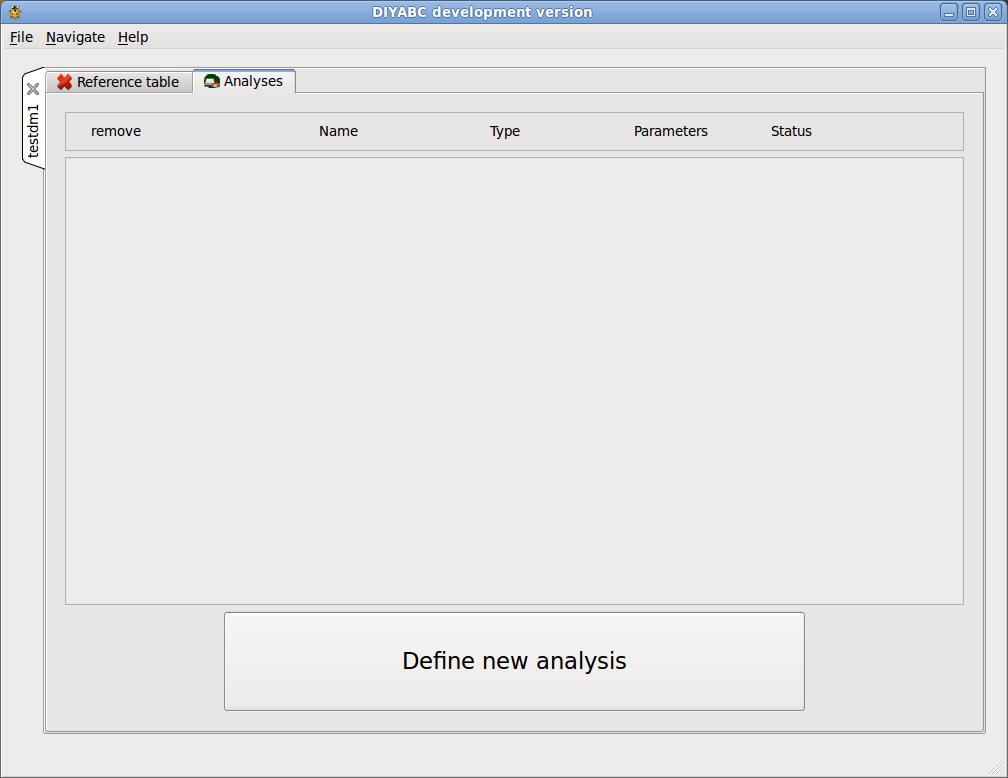
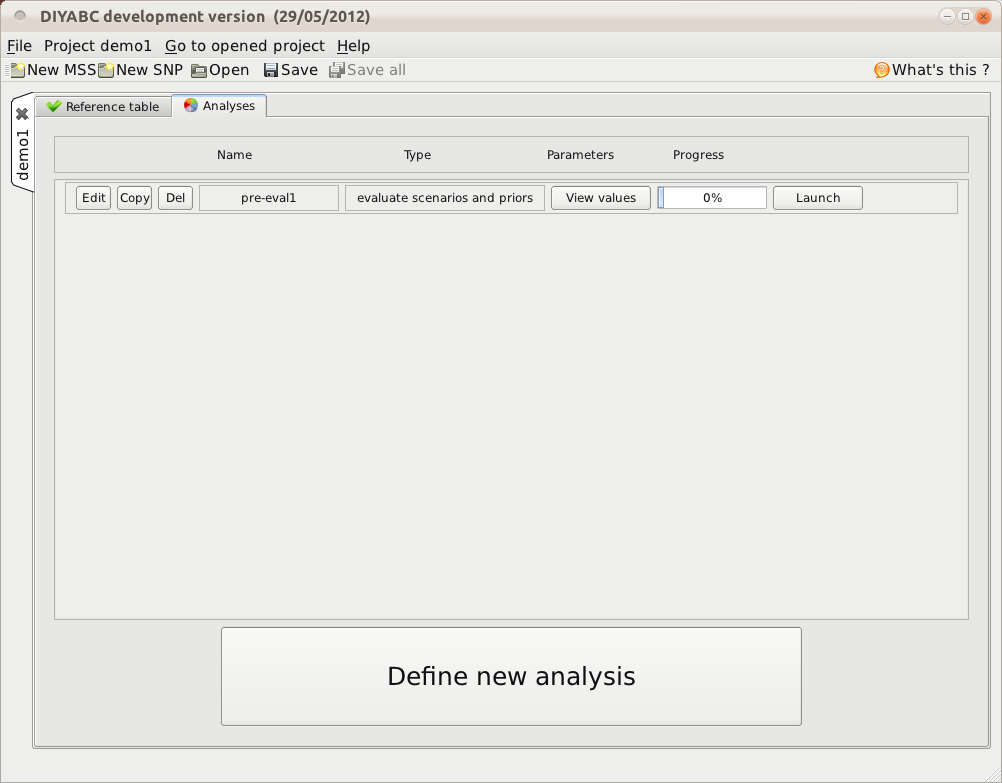
abandon du biais de recrutement mise à false sytématique de header.reference

diff --git a/Notice-DIYABC-v2/gui_description.tex b/Notice-DIYABC-v2/gui_description.tex
@@ -178,4 +178,23 @@ When the computation is finished, the screen looks like this :\\
 
 \includegraphics[scale=0.35]{gui_pictures/Capture-DIYABC-26.png} 
 
+\subsection{Performing analyses}
 
+We have now eveything necessary to perform analyses. The current screen shows two tabs : \texttt{Reference table} and \texttt{Analyses}. Let's click on the \texttt{Analyses} tab. We get this new screen :\\
+
+\includegraphics[scale=0.35]{gui_pictures/Capture-DIYABC-27.png} 
+
+First, we need to define the analysis we want to perform. So we click on the \fbox{\textsf{Define new analysis}} button and get this new screen :\\
+
+\includegraphics[scale=0.35]{gui_pictures/Capture-DIYABC-28.png} 
+
+We need to choose among the six possible types of analyses (actually, only four of them are possible, since the reference table includes a single scenario). We decide to first check whether the model (scenario and parameter prior definition) is off the target or not. This can be appreciated through the analysis denominated \texttt{Pre-evaluate scenario prior combination}. To illustrate the result, we also ask for a principal component analysis by checking the corresponding square. Eventually, we give the name of \textbf{pre-eval1} to this first analysis. The screen now looks like this :\\
+
+\includegraphics[scale=0.35]{gui_pictures/Capture-DIYABC-29.png}\\ 
+
+After clicking on the \fbox{\textsf{VALIDATE}} button, we go back to the previous screen. However, the new analysis now appears on top of the analysis panel. For each analysis, this panel provides its name and type, the list of parameters that will transmitted (in a coded way) to the computation program, a progress bar that approximates the progress of the analysis run, and four buttons. The right button has to be clicked to launch the analysis. The three left buttons provide a way to copy an analysis (\fbox{\textsf{Copy}} button), to make some modifications (\fbox{\textsf{Edit}} button) before launching it or to delete the analysis (\fbox{\textsf{Del}} button).\\
+ 
+
+\includegraphics[scale=0.35]{gui_pictures/Capture-DIYABC-30.png} 
+
+ 

diff --git a/src-JMC-C++/acploc.cpp b/src-JMC-C++/acploc.cpp
@@ -228,6 +228,7 @@ FILE *flog;
 */ 
     void cal_loc() {
         long double **qobs;
+		cout<<"debut de cal_loc\n";
 		//float *stat_obs,
 		float diff;
         int scen,**avant,**apres,**egal,bidon,nparamax = 0,npartpos=0;
@@ -247,6 +248,7 @@ FILE *flog;
         apres = new int*[rt.nscen];for (int i=0;i<rt.nscen;i++) {apres[i] = new int[rt.nstat];for (int j=0;j<rt.nstat;j++) apres[i][j]=0;}
         egal = new int*[rt.nscen]; for (int i=0;i<rt.nscen;i++) {egal[i]  = new int[rt.nstat];for (int j=0;j<rt.nstat;j++)  egal[i][j]=0;}
         rt.openfile2();
+		cout<<"avant la lecture des enregistrements  header.reference = "<<header.reference<<"\n";
         for (int p=0;p<rt.nrec;p++) {
 			if (not header.reference) bidon=rt.readrecord(&enr);
 			else {
@@ -303,7 +305,8 @@ FILE *flog;
              f12<<"\n";
         }
         f12.close();
-		iprog+=1;flog=fopen(progressfilename.c_str(),"w");fprintf(flog,"%d %d",iprog,nprog);fclose(flog);		
+		iprog+=1;flog=fopen(progressfilename.c_str(),"w");fprintf(flog,"%d %d",iprog,nprog);fclose(flog);
+		cout<<iprog<<"  "<<nprog<<"\n";
     }
 
 /**
@@ -316,6 +319,7 @@ FILE *flog;
  		cout<<"doacpl "<<opt<<"\n";
        ss = splitwords(opt,";",&ns);
         progressfilename = path + ident + "_progress.txt";
+		flog=fopen(progressfilename.c_str(),"w");fprintf(flog,"%d %d",0,100);fclose(flog);
         for (int i=0;i<ns;i++) { cout<<ss[i]<<"\n";
             s0=ss[i].substr(0,2);
             s1=ss[i].substr(2);

diff --git a/src-JMC-C++/header.cpp b/src-JMC-C++/header.cpp
@@ -160,7 +160,7 @@ int HeaderC::readHeaderScenarios(ifstream & file){
 		}
 	}
 	this->reference=false;
-	for (int ievent=0;ievent<this->scenario[0].nevent;ievent++){
+	/*for (int ievent=0;ievent<this->scenario[0].nevent;ievent++){
 		if (this->scenario[0].event[ievent].action == 'R') {
 			this->dataobs.nsample++;
 			this->dataobs.nind.resize(this->dataobs.nsample);
@@ -187,7 +187,7 @@ int HeaderC::readHeaderScenarios(ifstream & file){
 			}
 		}
 		if (this->scenario[0].event[ievent].nindMref+this->scenario[0].event[ievent].nindFref>0) this->reference=true;
-	}
+	}*/
 	for (int sa=0;sa<this->dataobs.nsample;sa++) cout<<this->dataobs.ss[0][sa]<<"   ";cout<<"\n";
 
 	for (int i=0;i<this->nscenarios;i++) delete []sl[i];
@@ -1390,6 +1390,7 @@ void HeaderC::calstatobs(string statobsfilename) {
 	//if (debuglevel==2)cout<<"entete : "<<entete<<"\n";
 	//delete []sb;
 	jstat=0;
+	if (debuglevel==2) cout<<"avant FILE *fobs\n";
 	FILE *fobs;
 	fobs=fopen(statobsfilename.c_str(),"w");
 	fputs(ent.c_str(),fobs);
